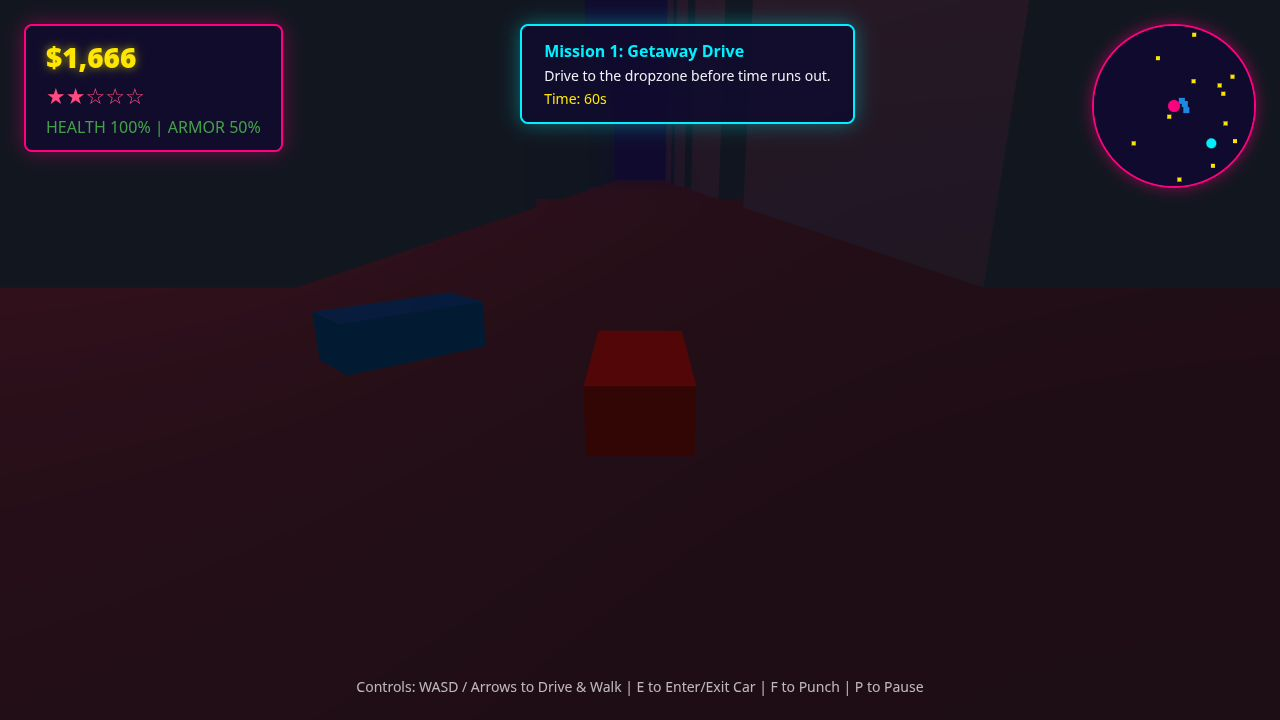
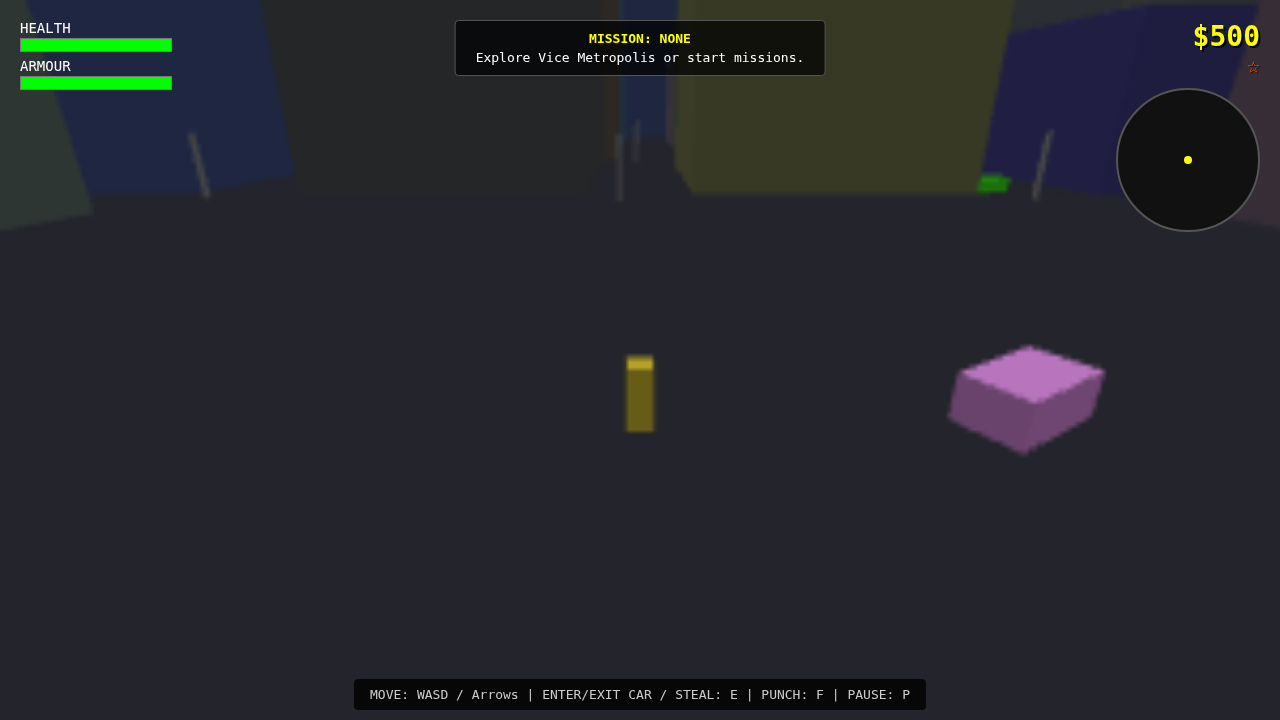
Fix renderer and shots, retake screenshots for start, play, and end scenes

diff --git a/game/src/render.js b/game/src/render.js
@@ -113,8 +113,9 @@ export class Renderer {
       varying vec3 vColor;
       varying vec3 vNormal;
       void main() {
-        vec3 lightDir = normalize(vec3(0.5, 1.0, 0.7));
-        float diff = max(dot(normalize(vNormal), lightDir), 0.3);
+        // Directional light and ambient minimum for clear city visibility
+        vec3 lightDir = normalize(vec3(0.6, 1.0, 0.5));
+        float diff = max(dot(normalize(vNormal), lightDir), 0.45);
         gl_FragColor = vec4(vColor * diff, 1.0);
       }
     `;
@@ -147,7 +148,6 @@ export class Renderer {
 
   initBuffers() {
     const gl = this.gl;
-    // Simple unit cube geometry (positions, normals, colors placeholder)
     const positions = [
       // Front
       -0.5, -0.5,  0.5,  0.5, -0.5,  0.5,  0.5,  0.5,  0.5, -0.5,  0.5,  0.5,
@@ -197,7 +197,7 @@ export class Renderer {
   render(world, player, camera) {
     const gl = this.gl;
     gl.viewport(0, 0, this.canvas.width, this.canvas.height);
-    gl.clearColor(0.05, 0.05, 0.1, 1.0);
+    gl.clearColor(0.12, 0.15, 0.25, 1.0);
     gl.clear(gl.COLOR_BUFFER_BIT | gl.DEPTH_BUFFER_BIT);
     gl.enable(gl.DEPTH_TEST);
 
@@ -213,19 +213,77 @@ export class Renderer {
 
     gl.uniformMatrix4fv(this.uniformLocations.projectionMatrix, false, new Float32Array(projectionMatrix));
 
-    // Draw ground / streets
-    // Draw buildings
+    // Draw Ground
+    const groundMatrix = Matrix4.multiply(
+      Matrix4.translation(0, -0.1, 0),
+      Matrix4.scaling(400, 0.2, 400)
+    );
+    let mvMatrix = Matrix4.multiply(viewMatrix, groundMatrix);
+    gl.uniformMatrix4fv(this.uniformLocations.modelViewMatrix, false, new Float32Array(mvMatrix));
+    this.drawCube([0.18, 0.18, 0.22]);
+
+    // Draw Buildings
     for (const b of world.buildings) {
       const modelMatrix = Matrix4.multiply(
         Matrix4.translation(b.x, b.height / 2, b.z),
         Matrix4.scaling(b.width, b.height, b.depth)
       );
-      const mvMatrix = Matrix4.multiply(viewMatrix, modelMatrix);
+      mvMatrix = Matrix4.multiply(viewMatrix, modelMatrix);
       gl.uniformMatrix4fv(this.uniformLocations.modelViewMatrix, false, new Float32Array(mvMatrix));
-
-      // Bind attributes and draw cube
       this.drawCube(b.color);
     }
+
+    // Draw Streetlights
+    for (const sl of world.streetlights) {
+      const modelMatrix = Matrix4.multiply(
+        Matrix4.translation(sl.x, 3.0, sl.z),
+        Matrix4.scaling(0.4, 6.0, 0.4)
+      );
+      mvMatrix = Matrix4.multiply(viewMatrix, modelMatrix);
+      gl.uniformMatrix4fv(this.uniformLocations.modelViewMatrix, false, new Float32Array(mvMatrix));
+      this.drawCube([0.6, 0.6, 0.6]);
+    }
+
+    // Draw Traffic Cars
+    for (const car of world.trafficCars) {
+      const modelMatrix = Matrix4.multiply(
+        Matrix4.multiply(
+          Matrix4.translation(car.x, 0.75, car.z),
+          Matrix4.rotationY(car.angle)
+        ),
+        Matrix4.scaling(2.2, 1.4, 4.0)
+      );
+      mvMatrix = Matrix4.multiply(viewMatrix, modelMatrix);
+      gl.uniformMatrix4fv(this.uniformLocations.modelViewMatrix, false, new Float32Array(mvMatrix));
+      this.drawCube(car.color);
+    }
+
+    // Draw Police Cars
+    for (const pcar of world.policeCars) {
+      if (!pcar.active) continue;
+      const modelMatrix = Matrix4.multiply(
+        Matrix4.multiply(
+          Matrix4.translation(pcar.x, 0.75, pcar.z),
+          Matrix4.rotationY(pcar.angle)
+        ),
+        Matrix4.scaling(2.4, 1.4, 4.2)
+      );
+      mvMatrix = Matrix4.multiply(viewMatrix, modelMatrix);
+      gl.uniformMatrix4fv(this.uniformLocations.modelViewMatrix, false, new Float32Array(mvMatrix));
+      this.drawCube([0.1, 0.3, 0.9]);
+    }
+
+    // Draw Player / Player Car
+    const pMatrix = Matrix4.multiply(
+      Matrix4.multiply(
+        Matrix4.translation(player.x, player.inCar ? 0.75 : 1.0, player.z),
+        Matrix4.rotationY(player.angle)
+      ),
+      player.inCar ? Matrix4.scaling(2.2, 1.4, 4.0) : Matrix4.scaling(0.8, 1.8, 0.8)
+    );
+    mvMatrix = Matrix4.multiply(viewMatrix, pMatrix);
+    gl.uniformMatrix4fv(this.uniformLocations.modelViewMatrix, false, new Float32Array(mvMatrix));
+    this.drawCube(player.inCar ? [0.9, 0.1, 0.2] : [0.9, 0.8, 0.2]);
 
     // Render minimap
     this.renderMinimap(world, player);
@@ -242,7 +300,6 @@ export class Renderer {
     gl.enableVertexAttribArray(this.attribLocations.normal);
     gl.vertexAttribPointer(this.attribLocations.normal, 3, gl.FLOAT, false, 0, 0);
 
-    // Create solid color attribute buffer for cube
     const colors = [];
     for (let i = 0; i < 24; i++) colors.push(...color);
     const colorBuffer = gl.createBuffer();
@@ -261,7 +318,6 @@ export class Renderer {
     const h = ctx.canvas.height;
     ctx.clearRect(0, 0, w, h);
 
-    // Background circle
     ctx.save();
     ctx.beginPath();
     ctx.arc(w / 2, h / 2, w / 2 - 2, 0, Math.PI * 2);
@@ -269,7 +325,6 @@ export class Renderer {
     ctx.fillStyle = '#111';
     ctx.fillRect(0, 0, w, h);
 
-    // Draw buildings as grey blocks on minimap
     ctx.fillStyle = '#444';
     for (const b of world.buildings) {
       const mx = w / 2 + (b.x - player.x) * 1.5;
@@ -277,7 +332,6 @@ export class Renderer {
       ctx.fillRect(mx - 4, mz - 4, 8, 8);
     }
 
-    // Draw player arrow in center
     ctx.fillStyle = '#ff0';
     ctx.beginPath();
     ctx.arc(w / 2, h / 2, 4, 0, Math.PI * 2);

diff --git a/game/src/shots.js b/game/src/shots.js
@@ -6,12 +6,10 @@ export function initShshots(gameInstance) {
   const seed = params.get('seed');
 
   if (seed) {
-    // Set seed if provided
     gameInstance.seed = Number(seed);
   }
 
   if (shot) {
-    // Hide title screen immediately
     const titleScreen = document.getElementById('title-screen');
     if (titleScreen) {
       titleScreen.style.display = 'none';
@@ -25,6 +23,7 @@ export function initShshots(gameInstance) {
       gameInstance.setupEndScene();
     }
 
+    window.__shotReady = true;
     window.__SCREENSHOT_READY__ = true;
   }
 }
